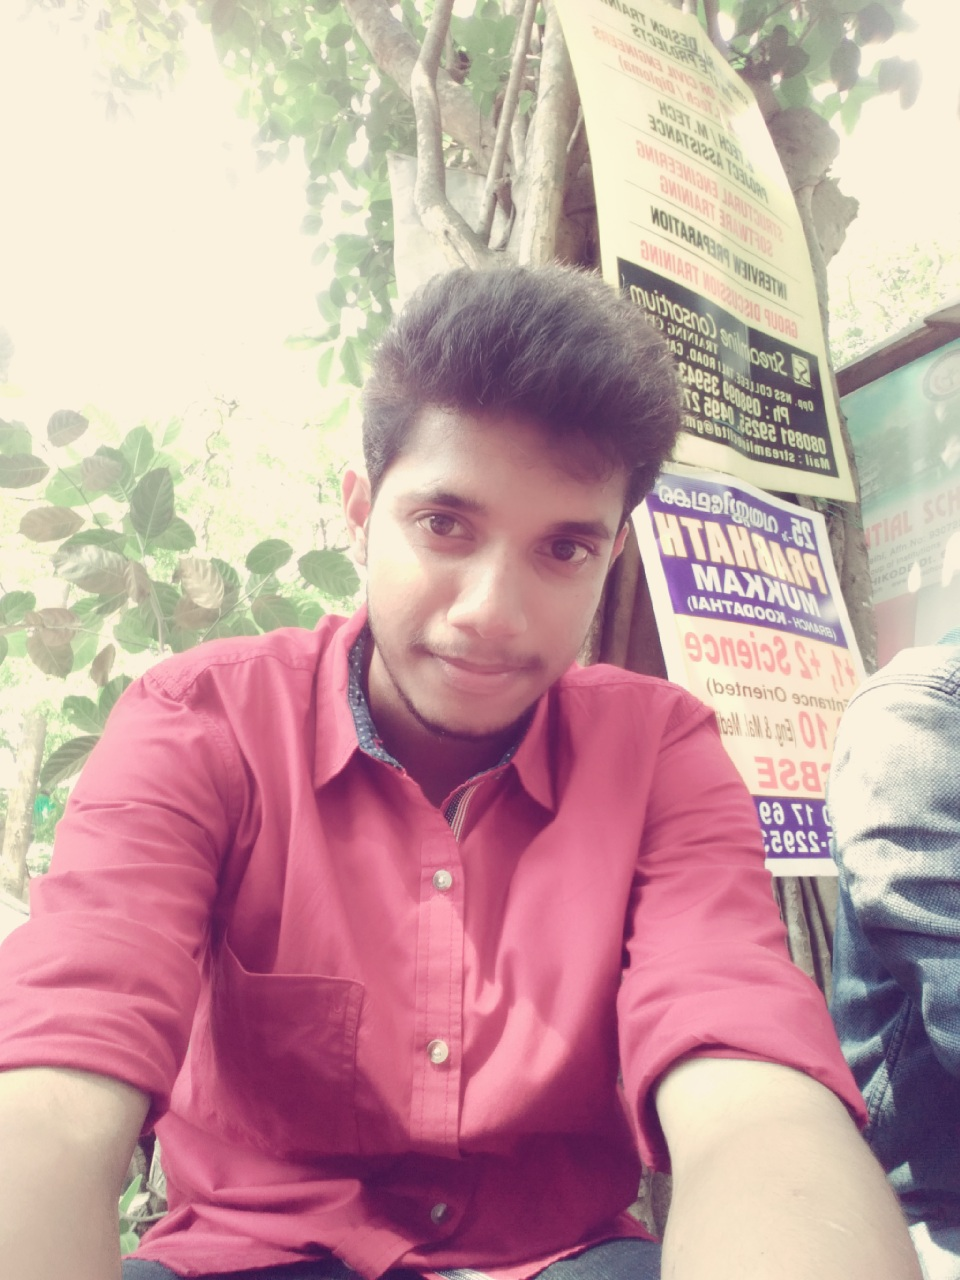
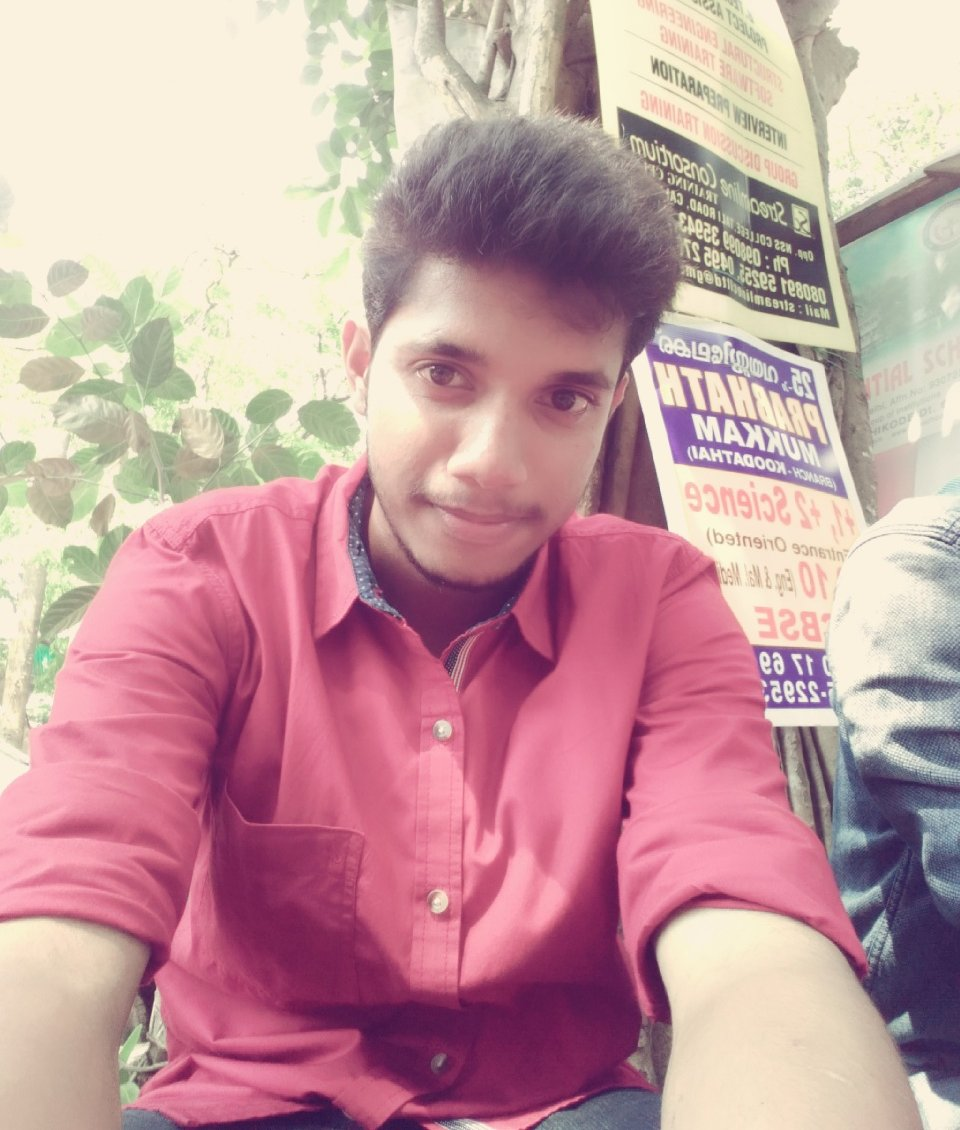
Edited and updated the photos. Only few more changes to be done.

diff --git a/devcom/index.html b/devcom/index.html
@@ -582,7 +582,7 @@
                 </h2>
                 <div class="mc-content">
                     <div class="img-container">
-                        <img class="img-responsive" src="  img/null.jpg">
+                        <img class="img-responsive" src="  img/28.jpg">
                     </div>
                     <div class="mc-description">
                         <a href="https://sruthigeorge.github.io/">  Basic web project</a>
